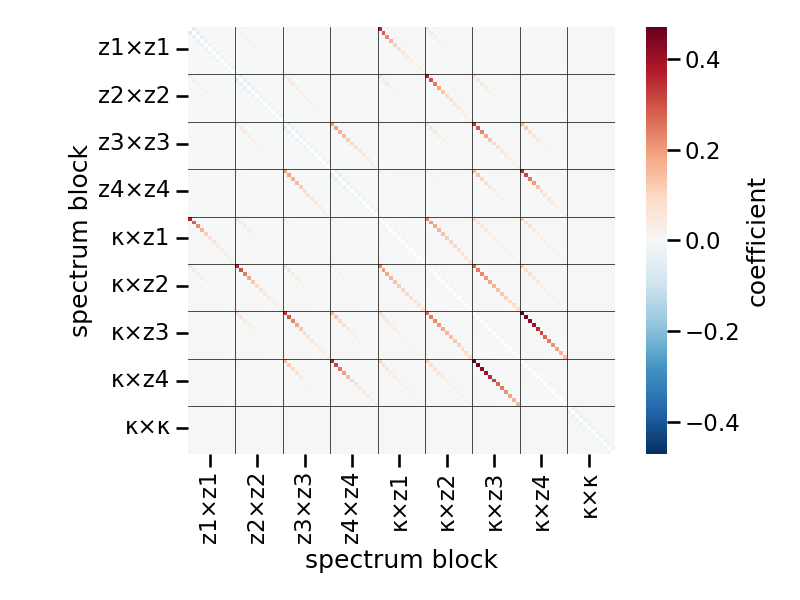
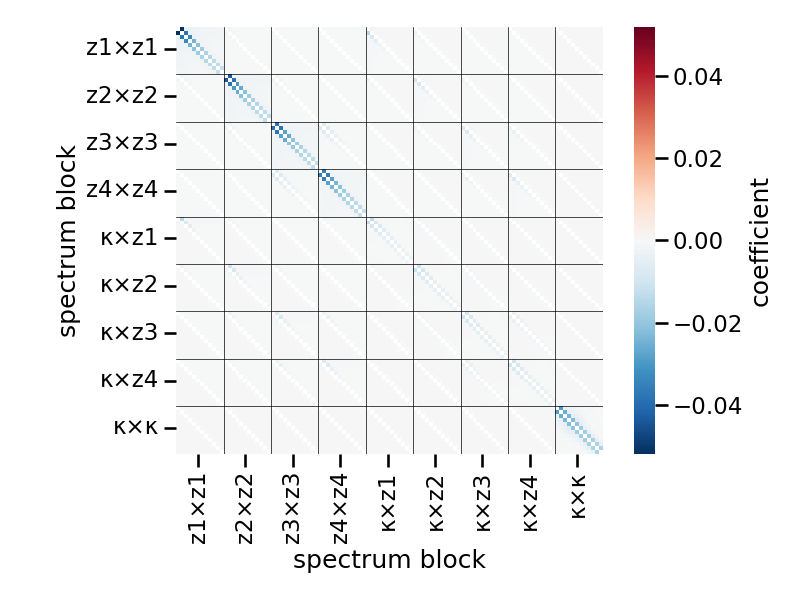
Ajout d'un masque pour améliorer l'affichage de la matrice de corrélation dans le heatmap

diff --git a/plot_cl_corr_heatmap.py b/plot_cl_corr_heatmap.py
@@ -125,6 +125,15 @@ def main():
         sns.set_context("talk")
         fig, ax = plt.subplots(figsize=(8, 6))
         mask = np.eye(corr.shape[0], dtype=bool)
+
+        n = len(labels)
+        nel = len(ell)
+        for bi in range(n):
+            rows = bi*nel + np.arange(nel)
+            for bj in range(n):
+                cols = bj*nel + np.arange(nel)
+                mask[rows, cols] = True
+
         vmax = np.max(np.abs(corr[~mask])) if corr.size > 1 else 1
         sns.heatmap(
             corr,
